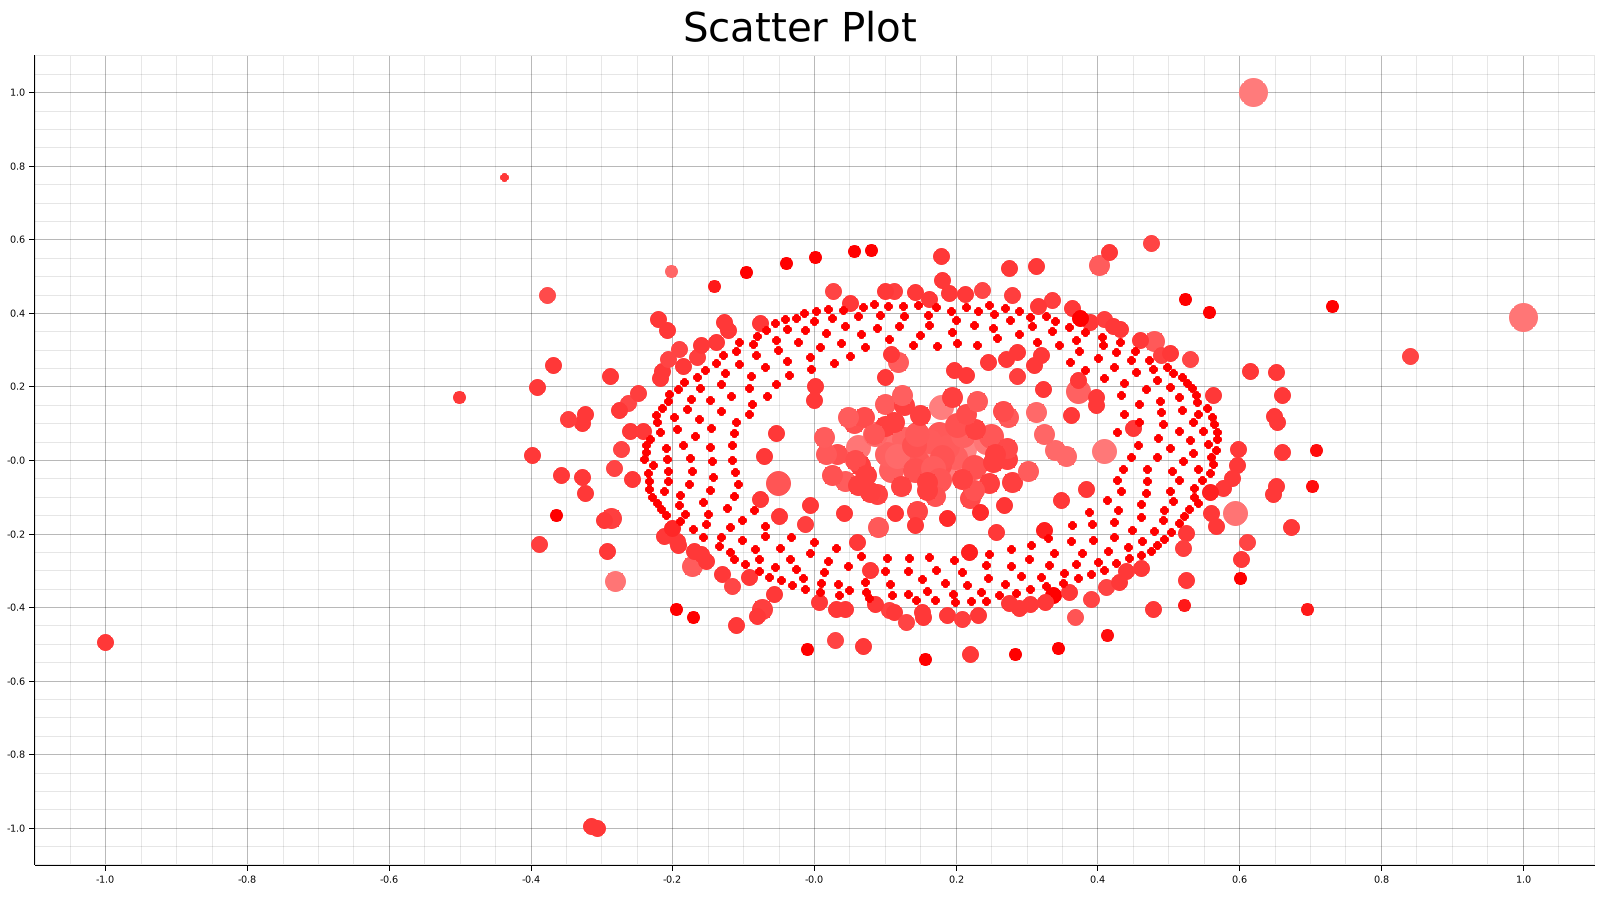
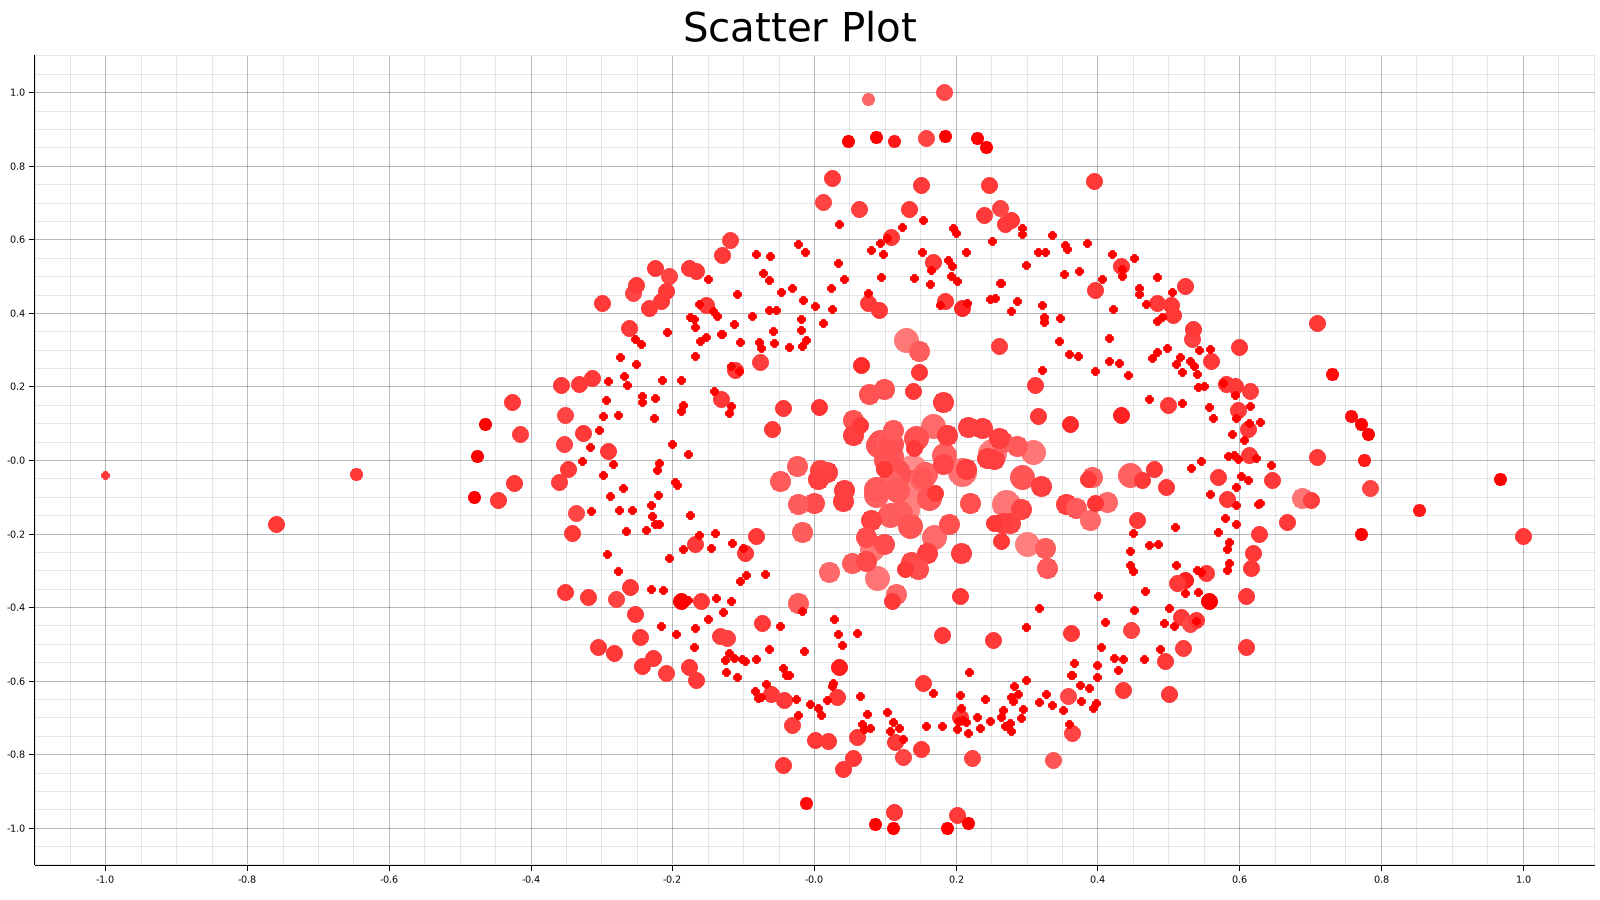
Fixed SMARCOF bug

diff --git a/src-tauri/src/model/analysis/metrics/coordinates.rs b/src-tauri/src/model/analysis/metrics/coordinates.rs
@@ -174,7 +174,6 @@ impl Coordinates {
     }
 
     fn SMACOF(d: &Array2<f64>, p: usize, max_iter: usize, tol: f64, random_state: Option<u64>) -> HashMap<u32, (f64, f64)> {
-        // 20s, 
         println!("      Initializing SMACOF...");
         let n = d.shape()[0];
         let mut rng = match random_state {
@@ -201,13 +200,13 @@ impl Coordinates {
             let mut stress = 0.0;
             for i in 0..n {
                 for j in (i + 1)..n {
-                    let dist_ij = Coordinates::euclideanNorm(&(&x.row(i) - &x.row(j)));
+                    let dist_ij = (&x.row(i) - &x.row(j)).mapv(f64::abs).sum();
                     stress += w[[i, j]] * (dist_ij - d[[i, j]]).powi(2);
                 }
             }
             stress
         };
-
+    
         // Majorization loop
         let initial_stress = compute_stress(&x);
         println!("\t\tInitial stress: {}", initial_stress);
@@ -221,9 +220,9 @@ impl Coordinates {
                 let mut denominator = 0.0;
                 for j in 0..n {
                     if i != j {
-                        let dist_ij = Coordinates::euclideanNorm(&(&x.row(i) - &x.row(j)));
+                        let dist_ij = (&x.row(i) - &x.row(j)).mapv(f64::abs).sum();
                         let dist_ij = if dist_ij == 0.0 { epsilon } else { dist_ij };
-                        let term1 = x.row(j).to_owned() + ((d[[i, j]] / dist_ij) * (&x.row(i) - &x.row(j)).to_owned());
+                        let term1 = x.row(j).to_owned() + ((d[[i, j]] / dist_ij) * (&x.row(j) - &x.row(i)).to_owned());
                         let contrib = w[[i, j]] * d[[i, j]] * term1;
                         numerator = numerator + contrib.insert_axis(Axis(0));
                         denominator += w[[i, j]] * d[[i, j]];
@@ -231,7 +230,7 @@ impl Coordinates {
                 }
                 x.row_mut(i).assign(&(numerator.sum_axis(Axis(0)) / denominator));
             }
-
+    
             bar.inc(1);
     
             // Compute new stress
@@ -254,7 +253,7 @@ impl Coordinates {
             let n_y: f64 = x[[i, 1]];
             xys.insert(i as u32, (n_x, n_y));
         }
-
+    
         return xys;
     }
 
